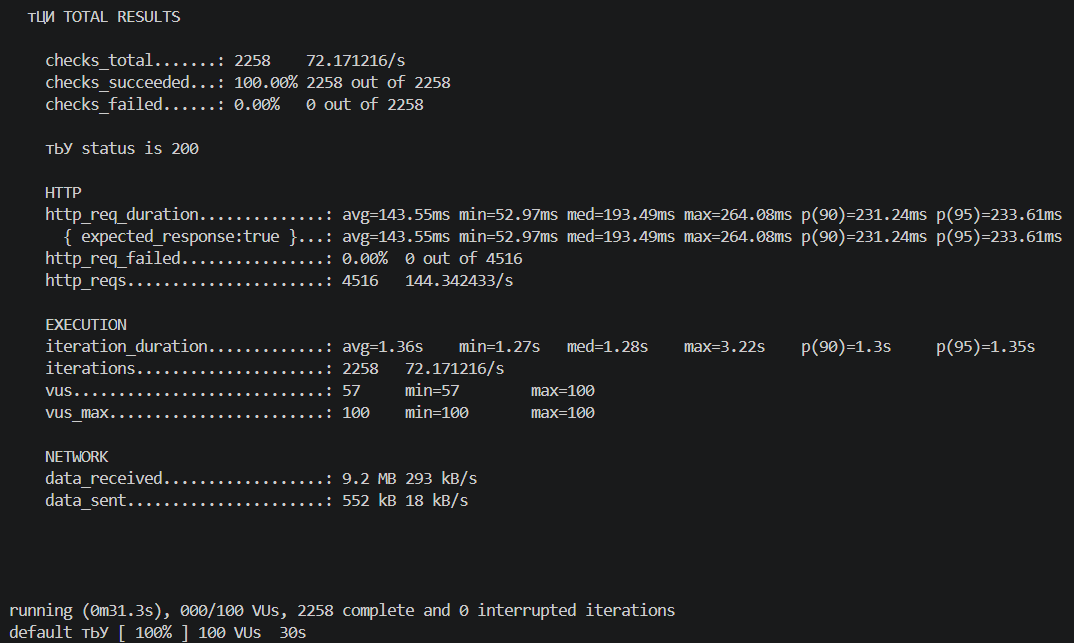
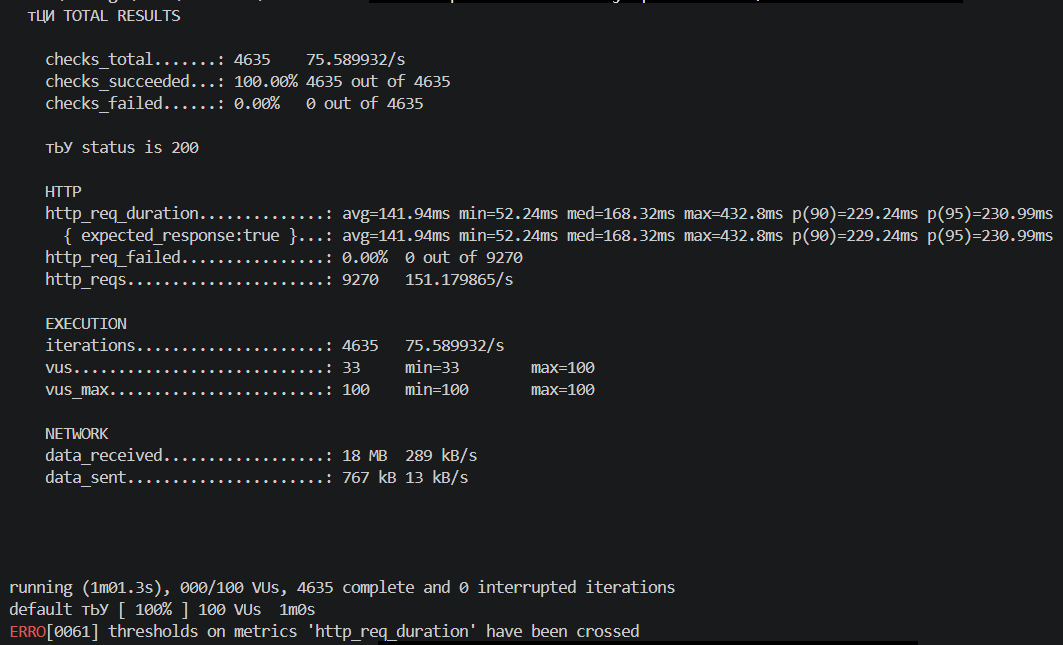
Update README with 1m test results and matching screenshots

diff --git a/README.md b/README.md
@@ -1,6 +1,7 @@
 # Лаб 02 — k6 Гүйцэтгэлийн хэмжүүр
 
 Нэр: Х.Дэлгэр
+
 Код: B222270835
 
 ## k6 version
@@ -10,52 +11,56 @@ k6.exe v2.2.0 (commit/00a9a1b7f5, go1.26.5, windows/amd64)
 ```
 
 
-## Харьцуулсан хүснэгт
 
-| VU  | p(90)    | p(95)    | Throughput   | Error rate |
-|-----|----------|----------|--------------|------------|
-| 5   | 258.05ms | 725.58ms | 6.58 req/s   | 0.00%      |
-| 30  | 271.24ms | 302.06ms | 41.49 req/s  | 0.00%      |
-| 100 | 231.97ms | 240.41ms | 147.60 req/s | 0.00%      |
+## Харьцуулсан хүснэгт (тест бүр 1 минут)
+
+| VU  | p(90)    | p(95)    | Throughput    | Error rate |
+|-----|----------|----------|---------------|------------|
+| 5   | 228.89ms | 229.61ms | 7.58 req/s    | 0.00%      |
+| 30  | 229.10ms | 231.32ms | 45.16 req/s   | 0.00%      |
+| 100 | 231.04ms | 239.02ms | 150.09 req/s  | 0.00%      |
 
 Дэлгэрэнгүй гаралтууд: `results/run-05vu.txt`, `results/run-30vu.txt`, `results/run-100vu.txt`
 
+## Stages туршилт (5 → 30 → 100 → 0 VU)
+
+Ачааллыг алхам алхмаар нэмэгдүүлж, дараа нь бууруулах ramping загварыг `script-stages.js`-д тодорхойлж, `results/run-stages.txt`-д гаралтыг хавсаргав. 80 секундын турш нийт 4198 хүсэлт илгээгдсэн бөгөөд p(95)=231.17ms, error rate 0.00% байв.
+
 ## SLO сонголт тайлбар
 
-Алхам 2-т хэмжсэн анхны (5 VU) baseline p95 (725.58ms)-ийг SLO-гийн үндэслэл болгож авав.
+Алхам 2-т хэмжсэн анхны (5 VU, 1 минут) baseline p95 (229.61ms)-ийг SLO-гийн үндэслэл болгож авав.
 
-SLO = baseline p95 (725.58ms) × 1.5 ≈ **1088ms**
+SLO = baseline p95 (229.61ms) × 1.5 ≈ **344ms**
 
-- `results/run-30vu-slo-v2.txt`: `p(95)<1088ms` threshold-той 30 VU дээр ажиллуулахад
-  **PASS** гарсан (бодит p95=402.13ms).
-- `results/run-100vu-slo-fail.txt`: FAIL кэйс харуулах зорилгоор санаатайгаар хатуу
-  `p(95)<200ms` threshold тогтоож 100 VU дээр ажиллуулахад **FAIL** гарсан
-  (бодит p95=256.6ms). Энэ нь бодит SLO биш — зөвхөн PASS/FAIL хоёуланг үзүүлэх
-  зорилготой туршилт.
+- `script-threshold-pass.js` → `results/run-30vu-slo-v2.txt`: `p(95)<344ms` threshold-той
+  30 VU дээр ажиллуулахад **PASS** гарсан (бодит p95=230.64ms).
+- `script-threshold-fail.js` → `results/run-100vu-slo-fail.txt`: FAIL кэйс харуулах
+  зорилгоор санаатайгаар хатуу `p(95)<200ms` threshold тогтоож 100 VU дээр
+  ажиллуулахад **FAIL** гарсан (бодит p95=230.99ms). Энэ нь бодит SLO биш —
+  зөвхөн PASS/FAIL хоёуланг үзүүлэх зорилготой туршилт.
 
-Скриптийн файлууд: `script-threshold-pass.js` (30 VU, PASS),
-`script-threshold-fail.js` (100 VU, FAIL — санаатай хатуу threshold).
 Дэлгэцийн зураг: `screenshots/threshold-pass.png`, `screenshots/threshold-fail.png`
 
 ## Дүгнэлт
 
 1. Load тестийг зөвшөөрөлтэй дадлагын сайт test.k6.io дээр гүйцэтгэсэн бөгөөд
    бусад бодит вебсайт руу тест хийгээгүй.
-2. VU тоо 5-с 100 болтол нэмэгдэхэд throughput шугаман бус боловч тогтвортой
-   өссөн (6.58 → 41.49 → 147.60 req/s).
+2. VU тоо 5-с 100 болтол нэмэгдэхэд throughput шугаман пропорционалаар өссөн
+   (7.58 → 45.16 → 150.09 req/s).
 3. Бүх түвшинд error rate 0.00% байсан нь target сервер өгөгдсөн ачааллыг
    хүндрэлгүй даасныг харуулна.
-4. 5 VU дээрх p95 (725.58ms) бусад түвшнээс хамаагүй өндөр гарсан нь цөөн
-   sample size дээр нэг удаагийн удаашрал статистикт их нөлөөлдгийг харуулав.
-5. VU нэмэгдэх тусам p95 latency бага зэрэг буурсан нь сервер талын connection
-   reuse болон дулаарсан кэштэй холбоотой байж болзошгүй.
+4. VU 5-с 100 болтол нэмэгдэхэд p95 latency харьцангуй тогтвортой хэвээр
+   байсан (229.61ms → 239.02ms), server-side хямралын шинж илрээгүй.
+5. Stages ашигласан ramping тест (`script-stages.js`)-ийн үр дүн (p95=231.17ms)
+   тогтмол ачааллын тестүүдийн үр дүнтэй нийцэж байгаа нь тогтвортой гүйцэтгэлийг
+   баталгаажуулж байна.
 6. Threshold-оо Алхам 2-т заасны дагуу 5 VU-гийн бодитоор хэмжсэн baseline
    дээр үндэслэсэн — зааврын жишээ тоог шууд хуулбарлаагүй.
-7. options дотор stages ашиглаагүй тул 5/30/100 VU-г тус тусад нь commandline
-   flag-аар ялгаатай ажиллуулж, тус бүрдээ тусдаа summary авч чадсан.
+7. options дотор stages болон vus/duration хоёуланг зэрэг ашиглаагүй тул
+   тус тестүүд тус тусдаа зөв summary өгсөн.
 8. `k6 run ... | tee results/...` команд ашигласнаар терминал дээрх гаралт
    болон файл руу хадгалагдсан гаралт хоёул ижил агуулгатай байлгав.
 9. FAIL кэйсийг зориудаар хатуу threshold тогтоож гаргасан — энэ нь бодит SLO
-   (1088ms) биш, зөвхөн PASS/FAIL хоёуланг харьцуулж үзүүлэх зорилготой.
+   (344ms) биш, зөвхөн PASS/FAIL хоёуланг харьцуулж үзүүлэх зорилготой.
 10. Цаашид илүү нарийвчилсан дүн шинжилгээ хийхийн тулд WebSocket, POST хүсэлт
     зэрэг илүү олон төрлийн endpoint дээр туршиж болно.
